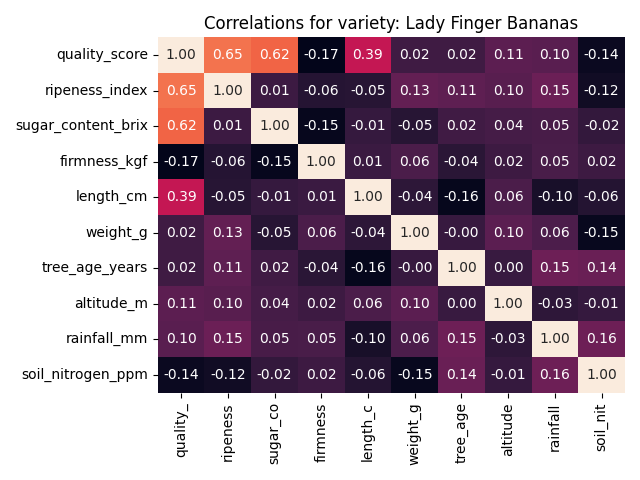
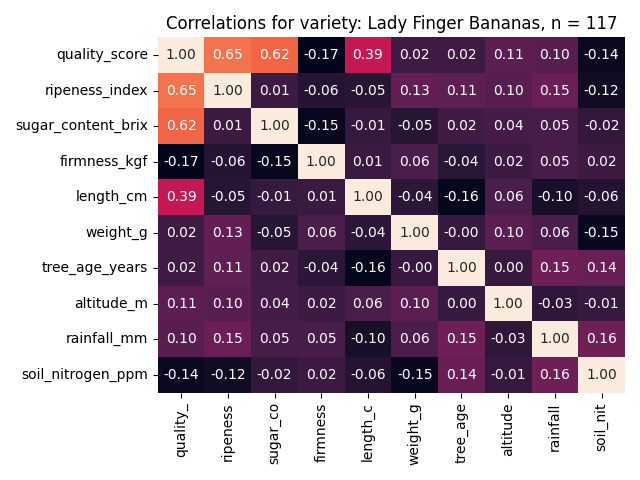
Work on adding more tables to report

Changed region(s): [[0.25, 0.0312, 0.9688, 0.0625]]

diff --git a/analysis.py b/analysis.py
@@ -22,6 +22,14 @@ figures_folder = os.path.join(report_folder, "figures")
 
 
 def generate_ranking(f, data: list, indices: list, values: list):
+    """Generates a table ranking the dataset by a selected column.
+
+    Args:
+        f: file to write out to.
+        data: current data source.
+        indices: category or categories for table index.
+        values: columns to include, table is sorted by first value descending.
+    """
     # Sort data by desired group
     dataset = sorted(data, key=lambda x: [getattr(x, i) for i in indices])
 
@@ -55,10 +63,89 @@ def generate_ranking(f, data: list, indices: list, values: list):
     )
     mdprint("\n", file=f)
 
+    # Print best country for each variety
+    if indices == ["region", "variety"]:
+        var_set = set()
+        best_country_for_var = []
+
+        for r in ranking:
+            if r[0][1] not in var_set:
+                var_set.add(r[0][1])
+                best_country_for_var.append((r[0][1], r[0][0]))
+
+        mdprint("Best Country for each Variety\n", heading=3, file=f)
+        mdprint(
+            tabulate(
+                best_country_for_var,
+                headers=["Variety", "Best Country"],
+                tablefmt="github",
+            ),
+            file=f,
+        )
+        mdprint("\n", file=f)
+
+
+def generate_count(f, data: list):
+    """Generates a table with counts/percents for each category.
+
+    Args:
+        f: file to write out to.
+        data: current data source.
+    """
+    # Sort data by desired group
+    dataset = sorted(data, key=lambda x: getattr(x, "region"))
+
+    # Group data and get count
+    ranking = []
+    for key, group in groupby(dataset, key=lambda x: getattr(x, "region")):
+        # Calculate column value and append to current row
+        e = [key, 0, 0, 0, 0]
+
+        for b in group:
+            match b.quality_category:
+                case "Premium":
+                    e[1] += 1
+                case "Good":
+                    e[2] += 1
+                case "Processing":
+                    e[3] += 1
+                case "Unripe":
+                    e[4] += 1
+
+        ranking.append(e)
+
+    # Convert to percents
+    for r in ranking:
+        sum_b = sum(r[1:])
+        for i in range(4):
+            r[i + 1] = f"{round((r[i+1] / sum_b) * 100, 1)}%"
+
+    # Print ranking in markdown format
+    ranking.sort(key=lambda x: [x[1], x[2]], reverse=True)
+    mdprint(f"Percent of Quality Bananas for each Country\n", heading=3, file=f)
+    mdprint(
+        tabulate(
+            ranking,
+            headers=["Quality", "Premium", "Good", "Processing", "Unripe"],
+            tablefmt="github",
+        ),
+        file=f,
+    )
+    mdprint("\n", file=f)
+
 
 def generate_correlations(
     f, data: pd.DataFrame, figures: str, filter_by: tuple, graph: bool = False
 ):
+    """Generates a correlations table.
+
+    Args:
+        f: file to write out to.
+        data: current data source.
+        figures: path of where to output figures if graphing is enabling.
+        filter_by: tuple containing column and value to filter dataset by.
+        graph: option to output graphs.
+    """
     # Filter
     data = data.loc[data[filter_by[0]] == filter_by[1]]
 
@@ -79,7 +166,9 @@ def generate_correlations(
             figures, f"heatmap_{' '.join(filter_by).replace(' ', '_')}.png"
         )
         sns.heatmap(corr, annot=True, fmt=".2f", cbar=False)
-        plt.title(f"Correlations for {filter_by[0]}: {filter_by[1]} Bananas")
+        plt.title(
+            f"Correlations for {filter_by[0]}: {filter_by[1]} Bananas, n = {data.shape[0]}"
+        )
         plt.tight_layout()
         plt.savefig(graph_file_path)
         plt.close()
@@ -90,6 +179,13 @@ def generate_correlations(
 
 
 def generate_analysis(data: list, dataset_name: str, graph: bool = False):
+    """Generates analysis containing tables and graphs in markdown format.
+
+    Args:
+        data: current data source.
+        dataset_name: file name of dataset.
+        graph: option to output graphs.
+    """
     # Build paths
     new_report = os.path.join(report_folder, f"report_{dataset_name.split('.')[0]}.md")
     new_figs = os.path.join(figures_folder, f"figures_{dataset_name.split('.')[0]}")
@@ -135,7 +231,10 @@ def generate_analysis(data: list, dataset_name: str, graph: bool = False):
                 ],
             )
 
+        generate_count(f, data)
+
         # Section 2
+        mdprint("\n", file=f)
         mdprint(
             "Relationships Between Banana Characteristics and Environment\n\n",
             heading=2,
@@ -163,6 +262,8 @@ def generate_analysis(data: list, dataset_name: str, graph: bool = False):
 
 
 def display_report():
+    """Prints out selected report in the terminal."""
+
     # Check reports exist
     if not os.path.exists(report_folder):
         print("\nError: No reports exist.")
@@ -170,7 +271,11 @@ def display_report():
 
     while True:
         # List files from report directory
-        data_files = os.listdir(report_folder)
+        data_files = []
+        for file in os.listdir(report_folder):
+            p = os.path.join(report_folder, file)
+            if not os.path.isdir(p):
+                data_files.append(file)
 
         # Don't list options if only one report exists
         if len(data_files) == 0:

diff --git a/run.py b/run.py
@@ -80,9 +80,9 @@ def main(auto=None, g_flag=False):
                 view.select_options_filtered(data)
             case 5: # For the more advanced analysis
                 view.select_options_comprehensive(data)
-            case 5: 
+            case 6: # Produce tables for loaded dataset
                 analysis.generate_analysis(data, source_file, g_flag)
-            case 6:
+            case 7: # View table files
                 analysis.display_report()
             case _:
                 # default

diff --git a/reports/report_banana_quality_dataset.md b/reports/report_banana_quality_dataset.md
@@ -1,6 +1,6 @@
 # Statistics for Banana Quality and Characteristics
 
-Generated at 00:32:08 2024-11-26
+Generated at 11:47:59 2024-11-26
 
 ## Comparison of Bananas by Origin and Variety
 
@@ -88,6 +88,36 @@ Generated at 00:32:08 2024-11-26
 | ['Colombia', 'Cavendish']      |            2.17 |             3.91 |                17.56 |           2.81 |       16.5  |     178.74 |
 
 
+### Best Country for each Variety
+
+| Variety     | Best Country   |
+|-------------|----------------|
+| Burro       | Costa Rica     |
+| Lady Finger | Costa Rica     |
+| Red Dacca   | Honduras       |
+| Cavendish   | Brazil         |
+| Blue Java   | Guatemala      |
+| Plantain    | Brazil         |
+| Manzano     | Guatemala      |
+| Fehi        | Honduras       |
+
+
+### Percent of Quality Bananas for each Country
+
+| Quality     | Premium   | Good   | Processing   | Unripe   |
+|-------------|-----------|--------|--------------|----------|
+| Brazil      | 4.8%      | 44.2%  | 51.0%        | 0.0%     |
+| Costa Rica  | 3.8%      | 43.8%  | 47.7%        | 4.6%     |
+| Ecuador     | 3.6%      | 36.5%  | 53.3%        | 6.6%     |
+| Philippines | 3.1%      | 41.7%  | 51.2%        | 3.9%     |
+| India       | 1.5%      | 46.6%  | 49.6%        | 2.3%     |
+| Colombia    | 1.5%      | 44.9%  | 49.3%        | 4.4%     |
+| Honduras    | 0.9%      | 45.8%  | 51.4%        | 1.9%     |
+| Guatemala   | 0.8%      | 44.4%  | 51.6%        | 3.2%     |
+
+
+
+
 ## Relationships Between Banana Characteristics and Environment
 
 
@@ -131,6 +161,8 @@ Generated at 00:32:08 2024-11-26
 | rainfall_mm        |      -0.04 |      -0.02 |      -0.09 |      -0.04 |       0.09 |      -0.18 |       0.02 |      -0.18 |       1    |      -0.05 |
 | soil_nitrogen_ppm  |       0.06 |      -0.03 |      -0.01 |      -0.13 |       0.15 |       0.06 |      -0.07 |       0.08 |      -0.05 |       1    |
 
+![title](/reports/figures/figures_banana_quality_dataset/heatmap_variety_Manzano.png)
+
 
 ### Correlations for Bananas of variety: Plantain
 |                    |   quality_ |   ripeness |   sugar_co |   firmness |   length_c |   weight_g |   tree_age |   altitude |   rainfall |   soil_nit |
@@ -145,6 +177,8 @@ Generated at 00:32:08 2024-11-26
 | altitude_m         |      -0.02 |      -0    |       0.03 |      -0.09 |      -0.06 |       0.05 |       0.05 |       1    |      -0.05 |       0.09 |
 | rainfall_mm        |      -0.01 |      -0.13 |       0.03 |      -0.01 |       0.15 |      -0.13 |      -0.12 |      -0.05 |       1    |      -0.01 |
 | soil_nitrogen_ppm  |      -0.13 |      -0.06 |       0.03 |      -0.01 |      -0.24 |      -0.09 |      -0.03 |       0.09 |      -0.01 |       1    |
+
+![title](/reports/figures/figures_banana_quality_dataset/heatmap_variety_Plantain.png)
 
 
 ### Correlations for Bananas of variety: Burro
@@ -161,6 +195,8 @@ Generated at 00:32:08 2024-11-26
 | rainfall_mm        |       0.18 |       0.06 |       0.18 |      -0.05 |       0.03 |      -0.12 |      -0.09 |       0    |       1    |       0.13 |
 | soil_nitrogen_ppm  |       0.07 |      -0.11 |       0.09 |      -0.01 |       0.19 |       0.02 |       0.05 |      -0.02 |       0.13 |       1    |
 
+![title](/reports/figures/figures_banana_quality_dataset/heatmap_variety_Burro.png)
+
 
 ### Correlations for Bananas of variety: Red Dacca
 |                    |   quality_ |   ripeness |   sugar_co |   firmness |   length_c |   weight_g |   tree_age |   altitude |   rainfall |   soil_nit |
@@ -175,6 +211,8 @@ Generated at 00:32:08 2024-11-26
 | altitude_m         |       0.09 |       0.05 |       0.07 |      -0.01 |       0.01 |       0.08 |      -0.02 |       1    |      -0.03 |      -0.15 |
 | rainfall_mm        |       0.12 |       0.07 |       0.09 |      -0    |       0.02 |       0.22 |       0.09 |      -0.03 |       1    |       0.08 |
 | soil_nitrogen_ppm  |      -0.12 |      -0.07 |      -0.13 |       0.15 |       0.05 |      -0.04 |      -0.07 |      -0.15 |       0.08 |       1    |
+
+![title](/reports/figures/figures_banana_quality_dataset/heatmap_variety_Red_Dacca.png)
 
 
 ### Correlations for Bananas of variety: Fehi
@@ -191,6 +229,8 @@ Generated at 00:32:08 2024-11-26
 | rainfall_mm        |      -0.15 |      -0.06 |      -0.17 |      -0.07 |      -0.04 |      -0.03 |       0.08 |      -0.11 |       1    |      -0.09 |
 | soil_nitrogen_ppm  |      -0    |       0.08 |       0.03 |       0.04 |      -0.13 |       0.03 |       0.06 |       0.06 |      -0.09 |       1    |
 
+![title](/reports/figures/figures_banana_quality_dataset/heatmap_variety_Fehi.png)
+
 
 ### Correlations for Bananas of variety: Lady Finger
 |                    |   quality_ |   ripeness |   sugar_co |   firmness |   length_c |   weight_g |   tree_age |   altitude |   rainfall |   soil_nit |
@@ -205,6 +245,8 @@ Generated at 00:32:08 2024-11-26
 | altitude_m         |       0.11 |       0.1  |       0.04 |       0.02 |       0.06 |       0.1  |       0    |       1    |      -0.03 |      -0.01 |
 | rainfall_mm        |       0.1  |       0.15 |       0.05 |       0.05 |      -0.1  |       0.06 |       0.15 |      -0.03 |       1    |       0.16 |
 | soil_nitrogen_ppm  |      -0.14 |      -0.12 |      -0.02 |       0.02 |      -0.06 |      -0.15 |       0.14 |      -0.01 |       0.16 |       1    |
+
+![title](/reports/figures/figures_banana_quality_dataset/heatmap_variety_Lady_Finger.png)
 
 
 ### Correlations for Bananas of variety: Blue Java
@@ -221,6 +263,8 @@ Generated at 00:32:08 2024-11-26
 | rainfall_mm        |      -0.06 |      -0    |      -0.13 |       0.23 |       0.05 |      -0.09 |       0.01 |      -0.02 |       1    |      -0.08 |
 | soil_nitrogen_ppm  |       0.13 |      -0.07 |       0.21 |      -0.06 |       0.1  |       0.18 |       0.14 |      -0.11 |      -0.08 |       1    |
 
+![title](/reports/figures/figures_banana_quality_dataset/heatmap_variety_Blue_Java.png)
+
 
 ### Correlations for Bananas of variety: Cavendish
 |                    |   quality_ |   ripeness |   sugar_co |   firmness |   length_c |   weight_g |   tree_age |   altitude |   rainfall |   soil_nit |
@@ -235,3 +279,5 @@ Generated at 00:32:08 2024-11-26
 | altitude_m         |      -0.11 |      -0.05 |      -0.2  |      -0.02 |       0.13 |      -0.12 |      -0.03 |       1    |       0.03 |      -0.05 |
 | rainfall_mm        |       0.04 |       0.04 |       0.03 |       0.07 |       0.01 |       0    |      -0.03 |       0.03 |       1    |       0.04 |
 | soil_nitrogen_ppm  |      -0.16 |      -0.16 |      -0.06 |       0.03 |       0.06 |       0.03 |      -0.09 |      -0.05 |       0.04 |       1    |
+
+![title](/reports/figures/figures_banana_quality_dataset/heatmap_variety_Cavendish.png)
